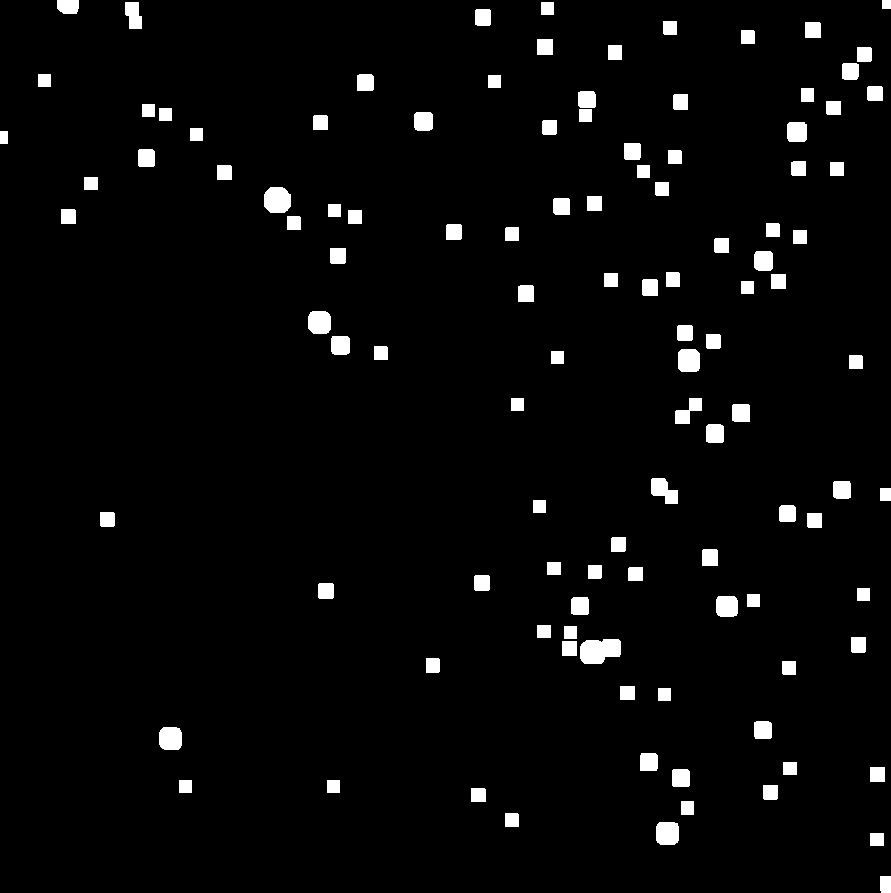
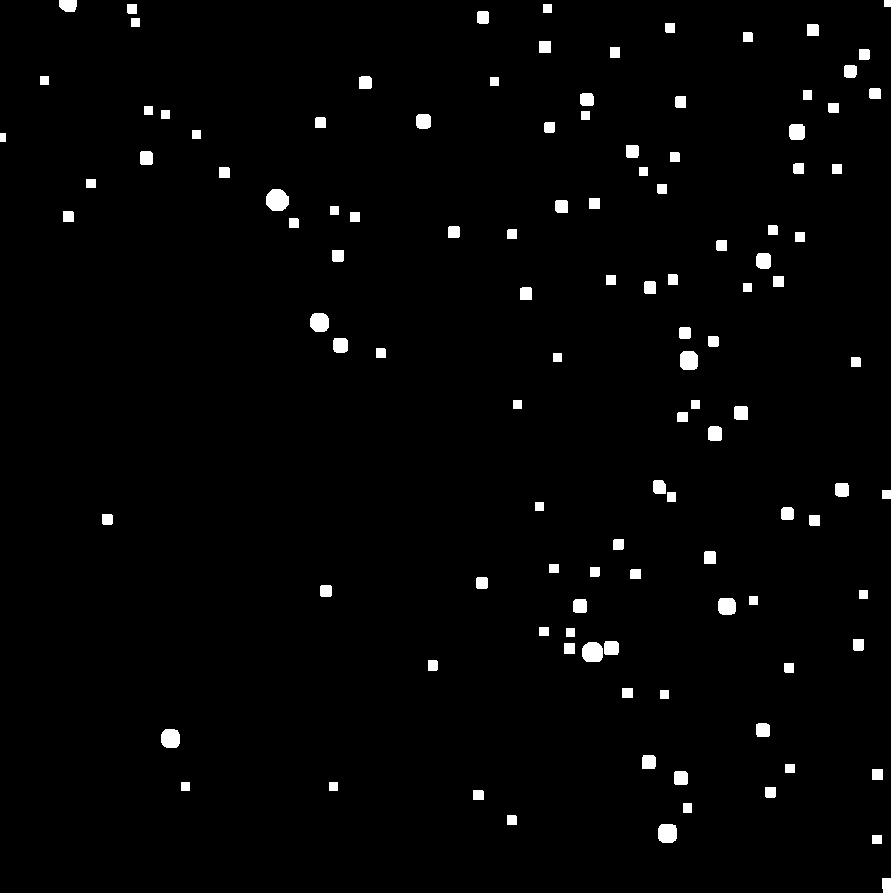
Phase 2 terminée youhou

diff --git a/selective_erosion.py b/selective_erosion.py
@@ -6,7 +6,11 @@ from photutils.detection import DAOStarFinder
 from astropy.stats import sigma_clipped_stats
 import scipy.ndimage as ndi
 
-# Open and read the FITS file
+# Paramètres ajustables
+attenuation_factor = 0.4  # Facteur d'atténuation pour les grosses étoiles (0.0 = aucune, 1.0 = pleine intensité)
+mask_dilate_size = 5  # Taille du kernel de dilatation pour le masque (plus petit = moins de couverture)
+blur_kernel_size = 21  # Taille du kernel de flou gaussien (plus grand = plus doux)
+blur_sigma = 5  # Sigma pour le flou gaussien (plus grand = plus diffus)
 fits_file = './examples/HorseHead.fits'
 hdul = fits.open(fits_file)
 
@@ -37,6 +41,9 @@ if data.ndim == 3:
     for i in range(data.shape[2]):
         channel = data[:, :, i]
         image[:, :, i] = ((channel - channel.min()) / (channel.max() - channel.min()) * 255).astype('uint8')
+
+    # Convert to grayscale for star detection
+    data = np.mean(data, axis=2)
 else:
     # Monochrome image
     plt.imsave('./results/original.png', data, cmap='gray')
@@ -68,8 +75,11 @@ bright_mask = (data > thresh_value).astype(np.uint8) * 255
 mask = cv.bitwise_or(mask, bright_mask)
 
 # Dilater plus largement le masque pour couvrir les étoiles
-kernel_dilate = np.ones((7,7), np.uint8)  # Plus grand kernel
+kernel_dilate = np.ones((mask_dilate_size, mask_dilate_size), np.uint8)  # Plus grand kernel
 mask = cv.dilate(mask, kernel_dilate, iterations=2)
+
+# Dilater le masque des étoiles brillantes pour la réintégration
+dilated_bright = cv.dilate(bright_mask, kernel_dilate, iterations=1)
 
 # Étape B : Réduction localisée
 # 1. Créer une version érodée de l'image originale (Ierode)
@@ -78,13 +88,37 @@ Ierode = cv.erode(image, kernel_erosion, iterations=2)
 
 # 2. Créer un masque d'étoiles (M) avec bords adoucis par flou gaussien
 M = mask.astype(np.float32) / 255.0  # Normaliser à [0, 1]
-M = cv.GaussianBlur(M, (5, 5), 0)  # Flou gaussien pour adoucir les bords
+M = cv.GaussianBlur(M, (blur_kernel_size, blur_kernel_size), blur_sigma)  # Flou gaussien pour adoucir les bords
+cv.imwrite('./results/blurred_mask.png', (M * 255).astype(np.uint8))  # Sauvegarder le masque flouté
+
+# Pour les images couleur, étendre le masque à tous les canaux
+if image.ndim == 3:
+    M = np.stack([M] * image.shape[2], axis=2)
+    dilated_bright = np.stack([dilated_bright] * image.shape[2], axis=2)
 
 # 3. Calculer l'image finale Ifinal = (M * Ierode) + ((1 - M) * image)
 Ifinal = (M * Ierode.astype(np.float32) + (1 - M) * image.astype(np.float32)).astype(np.uint8)
 
+# 4. Calculer l'image finale avec réintégration des grosses étoiles atténuées
+final = Ifinal.copy()
+if sources is not None:
+    threshold_flux = np.percentile(sources['flux'], 90)  # Seulement les 10% les plus brillantes
+    for source in sources:
+        if source['flux'] > threshold_flux:
+            x, y = int(source['xcentroid']), int(source['ycentroid'])
+            half_size = 15  # Taille du patch autour de l'étoile
+            x1, x2 = max(0, x - half_size), min(image.shape[1], x + half_size)
+            y1, y2 = max(0, y - half_size), min(image.shape[0], y + half_size)
+            # Extraire le patch de l'image originale
+            star_patch = image[y1:y2, x1:x2].astype(np.float32)
+            # Atténuer l'étoile
+            attenuated_star = star_patch * attenuation_factor
+            # Ajouter au résultat final (maximum pour éviter les artefacts)
+            final[y1:y2, x1:x2] = np.maximum(final[y1:y2, x1:x2], attenuated_star.astype(np.uint8))
+
 # Sauvegarder les résultats
-cv.imwrite('./results/eroded_selective.png', Ifinal)
+cv.imwrite('./results/eroded.png', Ierode)
+cv.imwrite('./results/final.png', final)
 cv.imwrite('./results/mask.png', mask)
 
 # Afficher les informations
